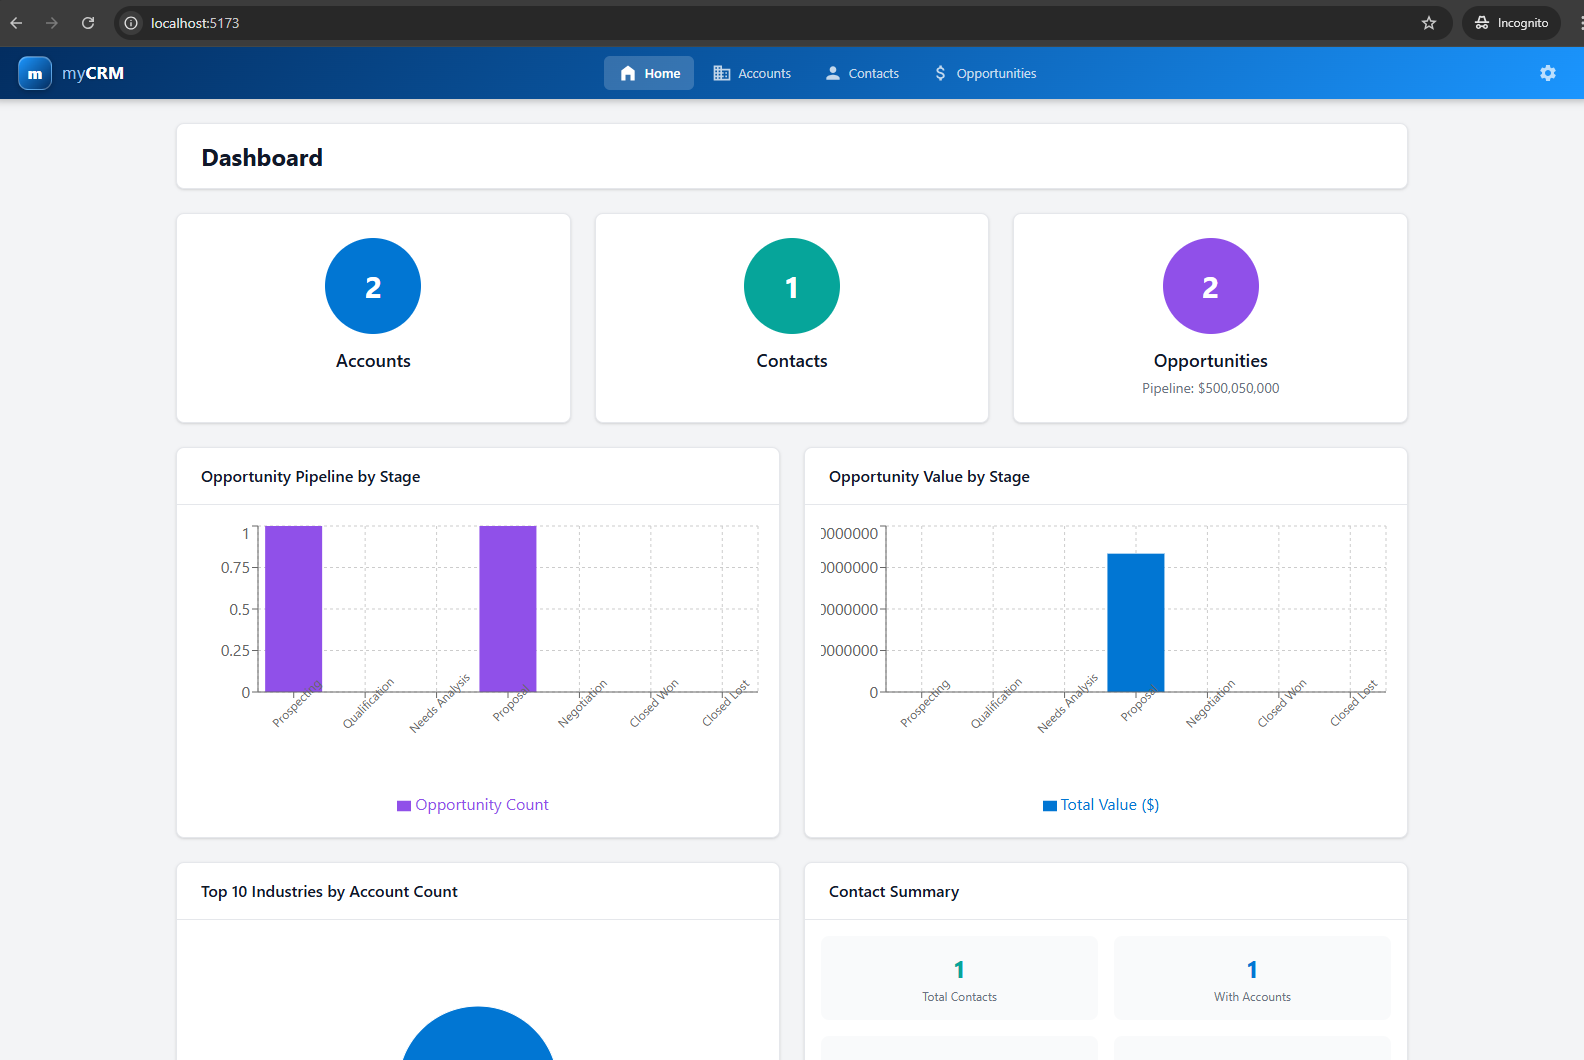
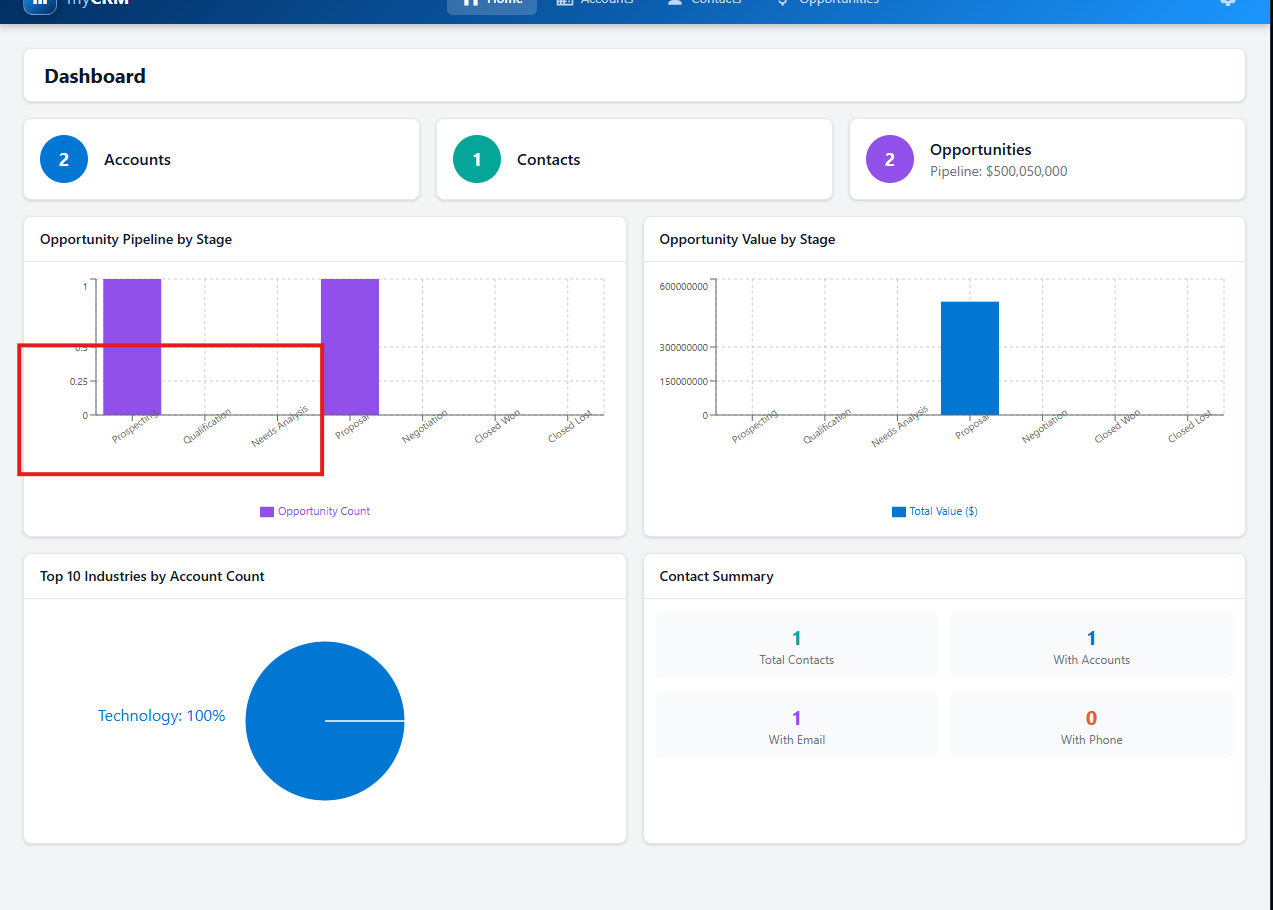
Dashboard: 3-col chart grid, fix label overlap with bottom margin
- Charts grid now lg:grid-cols-3 (3 per row)
- Use margin bottom 70px instead of XAxis height to push labels below bars
- Added dy:5 tick offset for clearer label positioning
- Removed Legend (titles are in card headers)
- Smaller pie chart radius for 3-col fit

diff --git a/frontend/src/pages/Home.tsx b/frontend/src/pages/Home.tsx
@@ -1,7 +1,7 @@
 import { useQuery } from '@tanstack/react-query';
 import { Link } from 'react-router-dom';
 import { accountsApi, contactsApi, opportunitiesApi } from '../api/client';
-import { BarChart, Bar, PieChart, Pie, Cell, XAxis, YAxis, CartesianGrid, Tooltip, Legend, ResponsiveContainer } from 'recharts';
+import { BarChart, Bar, PieChart, Pie, Cell, XAxis, YAxis, CartesianGrid, Tooltip, ResponsiveContainer } from 'recharts';
 
 function StatCard({ label, count, subtitle, to, color }: { label: string; count: number; subtitle?: string; to: string; color: string }) {
   return (
@@ -71,7 +71,7 @@ export default function Home() {
       </div>
 
       {/* Charts */}
-      <div className="grid grid-cols-1 gap-4 lg:grid-cols-2">
+      <div className="grid grid-cols-1 gap-4 lg:grid-cols-3">
         {/* Opportunity Pipeline by Stage - Count */}
         <div className="rounded-lg bg-white shadow-sm border border-gray-200">
           <div className="px-4 py-3 border-b border-gray-200">
@@ -79,12 +79,11 @@ export default function Home() {
           </div>
           <div className="p-3">
             <ResponsiveContainer width="100%" height={250}>
-              <BarChart data={pipelineData} margin={{ top: 5, right: 10, left: 0, bottom: 5 }}>
+              <BarChart data={pipelineData} margin={{ top: 5, right: 10, left: 0, bottom: 70 }}>
                 <CartesianGrid strokeDasharray="3 3" />
-                <XAxis dataKey="stage" angle={-35} textAnchor="end" interval={0} height={80} tick={{ fontSize: 10 }} />
+                <XAxis dataKey="stage" angle={-40} textAnchor="end" interval={0} tick={{ fontSize: 10, dy: 5 }} />
                 <YAxis tick={{ fontSize: 10 }} />
                 <Tooltip />
-                <Legend wrapperStyle={{ fontSize: 11 }} />
                 <Bar dataKey="count" fill="#9050e9" name="Opportunity Count" />
               </BarChart>
             </ResponsiveContainer>
@@ -98,12 +97,11 @@ export default function Home() {
           </div>
           <div className="p-3">
             <ResponsiveContainer width="100%" height={250}>
-              <BarChart data={pipelineData} margin={{ top: 5, right: 10, left: 0, bottom: 5 }}>
+              <BarChart data={pipelineData} margin={{ top: 5, right: 10, left: 10, bottom: 70 }}>
                 <CartesianGrid strokeDasharray="3 3" />
-                <XAxis dataKey="stage" angle={-35} textAnchor="end" interval={0} height={80} tick={{ fontSize: 10 }} />
+                <XAxis dataKey="stage" angle={-40} textAnchor="end" interval={0} tick={{ fontSize: 10, dy: 5 }} />
                 <YAxis tick={{ fontSize: 10 }} />
                 <Tooltip formatter={(value) => fmt.format(Number(value))} />
-                <Legend wrapperStyle={{ fontSize: 11 }} />
                 <Bar dataKey="value" fill="#0176d3" name="Total Value ($)" />
               </BarChart>
             </ResponsiveContainer>
@@ -116,17 +114,18 @@ export default function Home() {
             <h2 className="text-sm font-semibold text-gray-900 truncate">Top 10 Industries by Account Count</h2>
           </div>
           <div className="p-3">
-            <ResponsiveContainer width="100%" height={220}>
+            <ResponsiveContainer width="100%" height={250}>
               <PieChart>
                 <Pie
                   data={industryData}
                   cx="50%"
-                  cy="50%"
+                  cy="45%"
                   labelLine={false}
                   label={({ name, percent }: { name?: string; percent?: number }) => `${name ?? ''}: ${((percent ?? 0) * 100).toFixed(0)}%`}
-                  outerRadius={80}
+                  outerRadius={70}
                   fill="#8884d8"
                   dataKey="value"
+                  style={{ fontSize: 10 }}
                 >
                   {industryData.map((_, index) => (
                     <Cell key={`cell-${index}`} fill={INDUSTRY_COLORS[index % INDUSTRY_COLORS.length]} />
